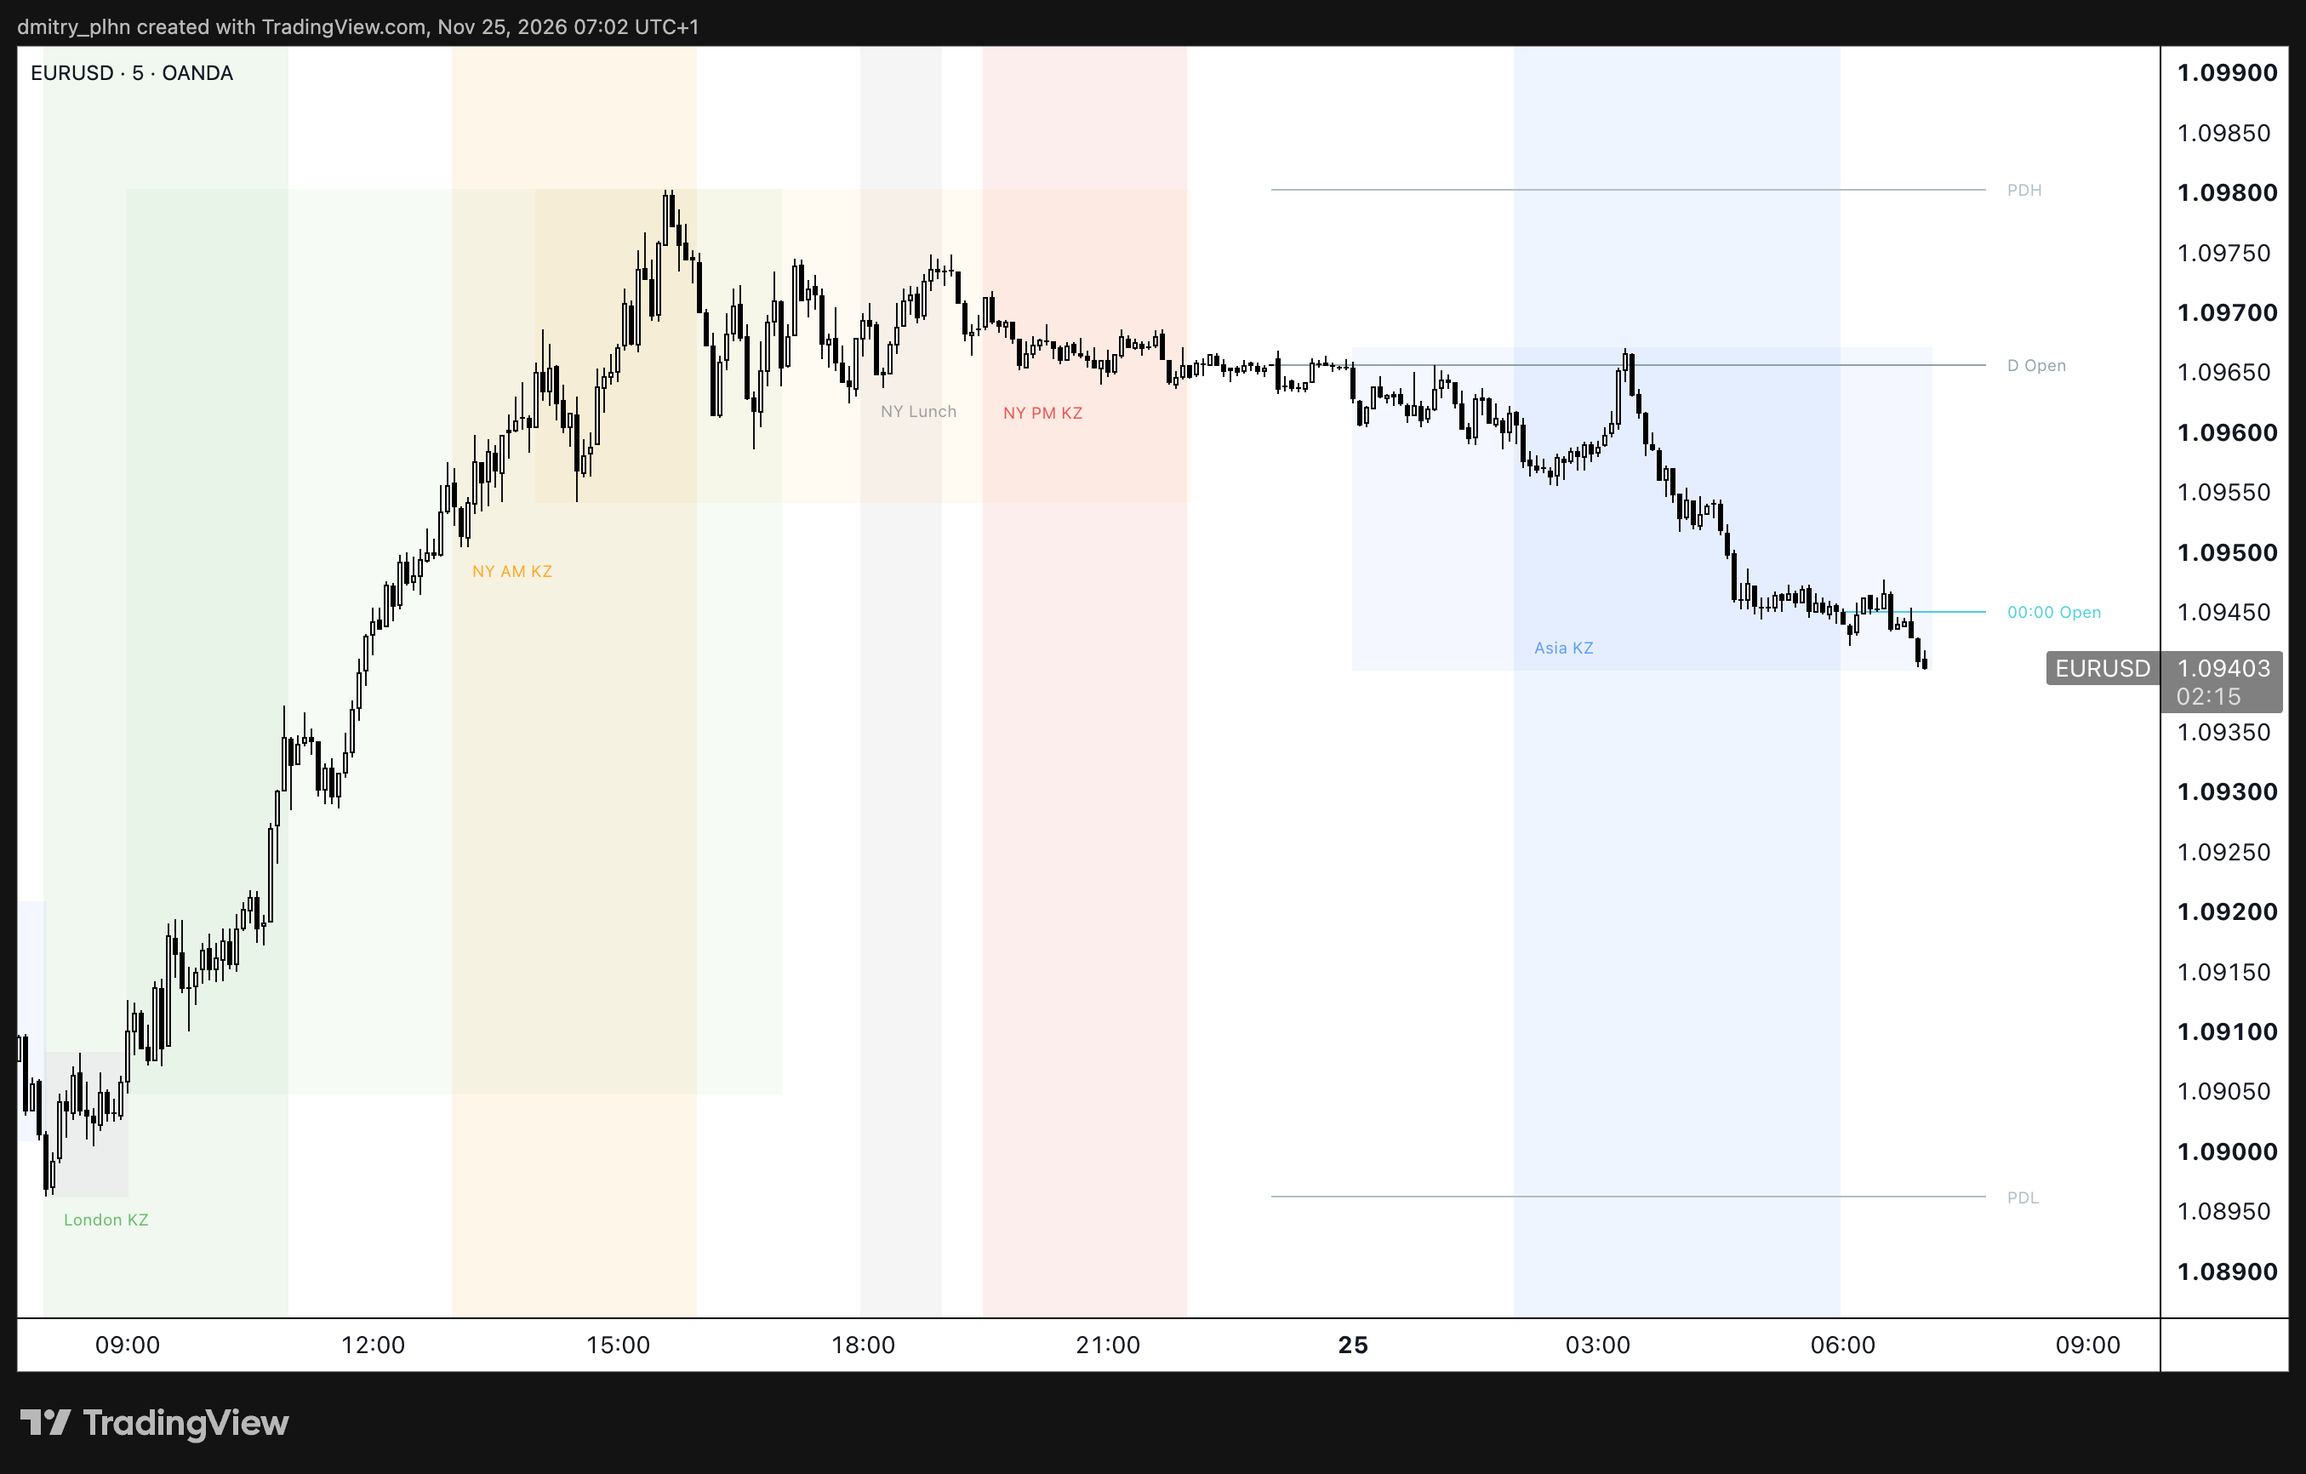
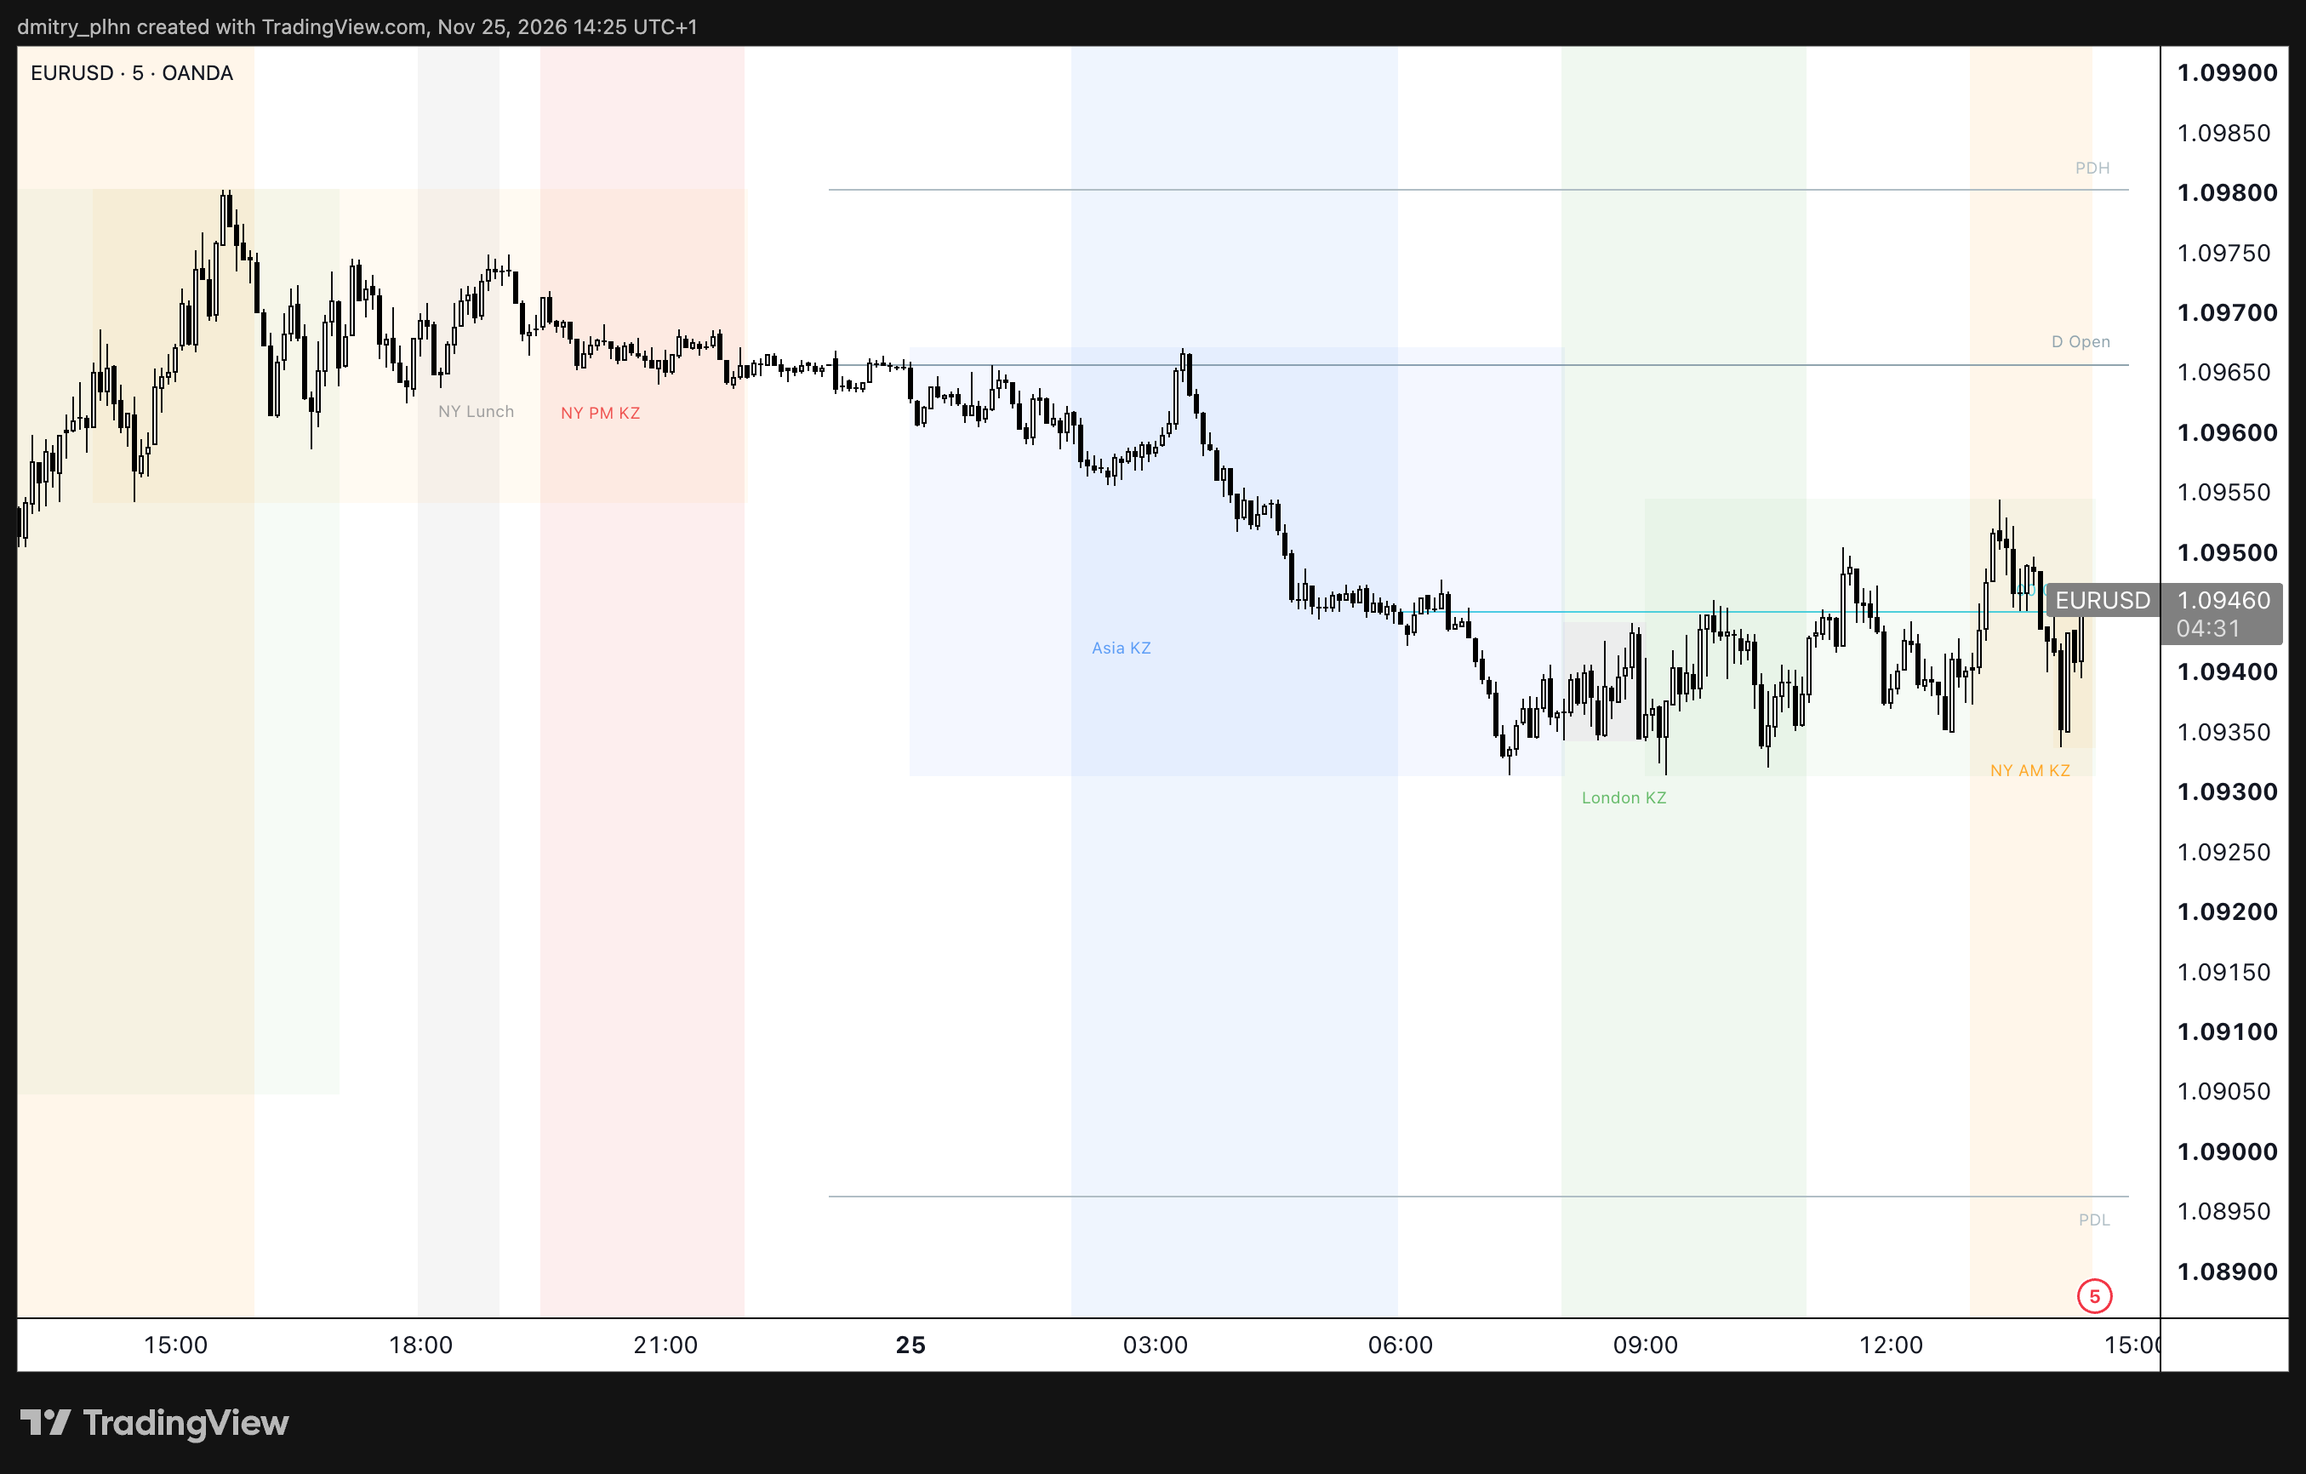
docs: describe the level label position and retake two pictures
Settings reference, FAQ, architecture notes, contributing rules and changelog follow the new default. The verification log records the compile and the chart run, including matrix rows 6 and 23. The two pictures that show level labels are retaken with the default right margin.

diff --git a/docs/TESTING.md b/docs/TESTING.md
@@ -76,6 +76,7 @@ Run before every release. Add the indicator to the chart and walk through the ro
 | 20 | Light and dark chart themes | All text is readable |
 | 21 | Regular-hours chart (stock or futures, RTH) | The New York session is drawn every day, although no bar separates two days |
 | 22 | *Hide levels farther than* = `2` with weekly and monthly levels on | Distant levels disappear and the price scale stops being stretched |
+| 23 | Level labels on a chart with the default right margin, then *Level labels position* = `After the line` | `At the line end`: every label is complete, over its line or under it for lows. `After the line`: the text follows the line and long labels are cut off by the price scale |
 
 ## Verification log
 
@@ -97,4 +98,6 @@ Run before every release. Add the indicator to the chart and walk through the ro
 | 2026-11-25 | 1.2.0 | Release build | The tagged file differs from the build run on the chart only in the `VERSION` string; static checks pass, it was not run on a chart again |
 | 2026-11-25 | 1.2.0 | Published build, modules switched on through the settings | pass — the script published on TradingView, on `OANDA:EURUSD` 15m and 5m: session labels, session levels, killzones, previous day levels, day and midnight opens, opening range with two projections, VWAP with bands, day separators, weekday labels and the dashboard, each without a script error; the dashboard status matched the clock. The pictures in `docs/images` come from this run. |
 | 2026-11-25 | 1.2.0 | Cosmetic findings of that run | recorded in the FAQ: level labels are cut off when the right margin of the chart is narrower than the label offset; labels of two levels at one price overlap; the default yellow VWAP is faint on a light chart |
-| — | 1.2.0 | Chart matrix rows 3, 6, 17, 20 | pending (clock-change week, removed levels, Bar Replay, dark theme) |
+| 2026-11-25 | `main`, after 1.2.0 | Level labels at the line end (new default), offset 5 | Static checks pass. Editor analysis: 0 errors, 0 warnings. Full compile with **Add to chart**: pass, twice (once with the level modules on by default, once with the released defaults). |
+| 2026-11-25 | `main`, after 1.2.0 | Chart matrix rows 23 and 6 | pass — `OANDA:EURUSD` 15m and 5m with TradingView's default right margin (10 bars at 6 pixels): session levels, previous day levels, day and midnight opens are labelled in full, also with *Price in level labels* on and with a 6-bar margin. On the same chart version 1.2.0 cut every one of these labels, and still did with the offset lowered to 2. `After the line` gives the old placement. *Broken levels* = `Remove` deletes the broken lines. |
+| — | `main`, after 1.2.0 | Chart matrix rows 3, 17, 20 | pending (clock-change week, Bar Replay, dark theme) |

diff --git a/docs/ARCHITECTURE.md b/docs/ARCHITECTURE.md
@@ -138,6 +138,20 @@ directly, so each one has a unique name: `Tracker.advance`, `Period.feed`, `Anch
 Pine reserves multiples of four spaces for blocks and requires other indentations for wrapped lines. To keep that rule
 out of everyone's way the source does not wrap lines at all; long calls stay on one line.
 
+### 11. Level labels grow into the chart
+
+A script cannot read how wide the right margin of the chart is, so a label that follows its line cannot be fitted
+to it: with TradingView's default margin the price scale cut `London High` after a few letters. By default the
+label is therefore anchored at the end of the line and grows to the left — over the line, or under it for a low,
+which is the side price is not on while the level is unbroken. `levelTagStyle` picks the label style; the old
+placement stays available as `After the line`.
+
+### 12. New inputs go last
+
+TradingView stores the settings of an indicator by the position of each input. An input added in the middle
+shifts every saved value after it into the wrong field. A new input is declared after the last one, also when
+its group sits earlier in the file — `i_tagSpot` is the example.
+
 ## Object budget
 
 | Drawing | Per day, defaults | Per day, everything on |
@@ -174,5 +188,7 @@ levels fold back to their first bar.
 - Session averages and the running day range depend on the bars loaded on the chart.
 - The dashboard status uses the wall clock; it does not know the exchange calendar.
 - Every level has its own label. Two levels at one price therefore print two labels over each other.
-- A level label starts at the end of its line, `i_offset` bars after the last bar. It is visible only when the
-  right margin of the chart is wider than that.
+- A level label ends at the end of its line, `i_offset` bars after the last bar. It is complete only when the
+  right margin of the chart is at least that wide.
+- The level list is trimmed by age. With `Keep, faded` a broken level can push out an older level that is still
+  live.

diff --git a/docs/SETTINGS.md b/docs/SETTINGS.md
@@ -17,7 +17,7 @@ With every input at its default the chart shows the four main sessions and nothi
 | Custom timezone | `UTC+3` | Used only when *Timezone of session times* is `Custom`. Accepts an IANA name (`Europe/Kyiv`) or an offset (`UTC+3`). An offset does not follow daylight saving time. |
 | History, days (0 = all) | `20` | Drawings older than this many days are skipped. `0` draws the whole loaded history. |
 | Hide sessions above, minutes | `60` | Sessions, killzones and the opening range are hidden on chart timeframes above this value. |
-| Level labels offset, bars | `8` | How far to the right of the last bar the level lines end and their labels begin. The label needs free space after that point, so keep the right margin of the chart wider than this value. |
+| Level labels offset, bars | `5` | How many bars to the right of the last bar the level lines end. Their labels sit at that end, so keep the right margin of the chart at least this wide. |
 
 ## ② Sessions
 
@@ -176,3 +176,4 @@ range.
 | Level labels | on | Text at the right end of each level line. |
 | Price in level labels | off | Appends the price to the label. |
 | Hide levels farther than, × ADR (0 = never) | `0.0` | Levels farther from the last price than this many average daily ranges are not drawn. Use it when a distant weekly or monthly level squeezes the candles. Session levels fold back to the bar where they formed. |
+| Level labels position | `At the line end` | `At the line end` prints the text over the right end of the line — under it for lows — inside the chart, where the price scale cannot cut it off. `After the line` prints it to the right of the line; that needs a right margin wide enough for the whole text. |

diff --git a/README.ru.md b/README.ru.md
@@ -77,7 +77,7 @@ Asia, Frankfurt, London и New York мягкими цветными боксам
 </tr>
 </table>
 
-<sub>EURUSD на 15 и 5 минутах, светлая тема графика, версия 1.2.0. Нажмите на картинку, чтобы открыть её в полном размере.</sub>
+<sub>EURUSD на 15 и 5 минутах, светлая тема графика. Нажмите на картинку, чтобы открыть её в полном размере.</sub>
 
 ## Быстрый старт
 
@@ -163,6 +163,7 @@ NY PM 13:30 – 16:00. Это общепринятые значения, а не
 - Профиль объёма сессии
 - Статистика: как часто одна сессия пробивает диапазон другой
 - Одна подпись для уровней с одинаковой ценой вместо двух подписей друг на друге
+- Когда список уровней заполнен, сначала убирать пробитые уровни, а не действующие
 - Алерты на начало сессии, пробой уровня и пробой opening range — модуль написан и проверен на живом графике, он
   лежит в ветке `feature/alerts` до одного из следующих релизов
 

diff --git a/CHANGELOG.md b/CHANGELOG.md
@@ -13,10 +13,12 @@ How versions are counted for an indicator:
 
 ## [Unreleased]
 
-No change to how the indicator behaves: the publication, pictures and documentation.
+Level labels that stay readable with TradingView's default right margin, plus the publication, pictures and
+documentation.
 
 ### Added
 
+- *⑫ Style → Level labels position*: `At the line end` (the new default) or `After the line` (the placement of 1.2.0).
 - The indicator is published on TradingView as a public, protected script:
   https://www.tradingview.com/script/ticv4Yo6-Custom-Sessions-Indicator/
 - Screenshots of the default look and of the modules in both READMEs and in the settings reference
@@ -28,9 +30,15 @@ No change to how the indicator behaves: the publication, pictures and documentat
 
 ### Changed
 
+- Level labels sit at the right end of their line — over it, under it for lows — instead of after it.
+- *① General → Level labels offset, bars* defaults to `5` (was `8`).
 - The copyright line of the script names the TradingView account of the author, `dmitry_plhn`.
 - `docs/PUBLISHING.md` describes the publication as it is: categories, tags, picture and what can still be
   changed after publishing.
+
+### Fixed
+
+- Level labels were cut off by the price scale on a chart with the default right margin (`London Hi…`, `D Ope…`).
 
 ## [1.2.0] - 2026-11-25
 

diff --git a/docs/FAQ.md b/docs/FAQ.md
@@ -56,9 +56,14 @@ compresses the candles. Two ways out:
 
 ## The level labels are cut off at the right edge
 
-The text of a level label starts *① General → Level labels offset, bars* to the right of the last bar (8 by
-default) and needs free space after that point. When the right margin of the chart is narrower, the price scale
-cuts the text off. Drag the chart to the left to widen the margin, or lower the offset.
+By default a level label sits at the right end of its line — over it, or under it for a low — and that end is
+*① General → Level labels offset, bars* after the last bar (5 by default). The label is complete as long as the right
+margin of the chart is at least that wide; TradingView's default margin is 10 bars. If you made the margin
+narrower, drag the chart to the left or lower the offset.
+
+With *⑫ Style → Level labels position* set to `After the line` the text follows the line instead. It then needs
+room for the whole text after the line end, which the default margin does not give to longer labels such as
+`London High`.
 
 ## Two level labels are printed over each other
 

diff --git a/CONTRIBUTING.md b/CONTRIBUTING.md
@@ -59,6 +59,8 @@ with these project rules.
 - Every input belongs to a group and, when its meaning is not obvious, has a tooltip.
 - In an inline row only the first input has a title.
 - New modules are off by default.
+- Declare a new input after the last one. TradingView stores settings by input position, so an input added in the
+  middle shifts the saved settings of everyone who uses the indicator.
 
 **Formatting**
 
@@ -82,7 +84,7 @@ change alters what they show.
 - Use a chart with this indicator only: no other indicators, no drawings, the light theme.
 - Symbol `OANDA:EURUSD`: 15 minutes for the session pictures and the dashboard, 5 minutes for killzones and the
   opening range.
-- Leave a right margin wide enough for the level labels.
+- Keep TradingView's default right margin, so the pictures show what a new user sees.
 - Take the picture with TradingView's own snapshot (the camera icon → *Download image*), so the symbol, the
   timeframe and the time are part of it.
 - Keep the file names, and name the settings you switched on in the caption.

diff --git a/README.md b/README.md
@@ -77,7 +77,7 @@ Every picture below is the same indicator with a few checkboxes switched on. The
 </tr>
 </table>
 
-<sub>EURUSD on 15 and 5 minutes, light chart theme, version 1.2.0. Click a picture to open it in full size.</sub>
+<sub>EURUSD on 15 and 5 minutes, light chart theme. Click a picture to open it in full size.</sub>
 
 ## Quick start
 
@@ -161,6 +161,7 @@ verification log in [docs/TESTING.md](docs/TESTING.md) lists what has been check
 - Session volume profile
 - Statistics: how often one session breaks the range of another
 - One label for levels that share a price, instead of two labels printed over each other
+- When the level list is full, drop broken levels before live ones
 - Alerts for session starts, broken levels and opening range breakouts — built and tried on a live chart, kept on
   the `feature/alerts` branch until a later release
 
